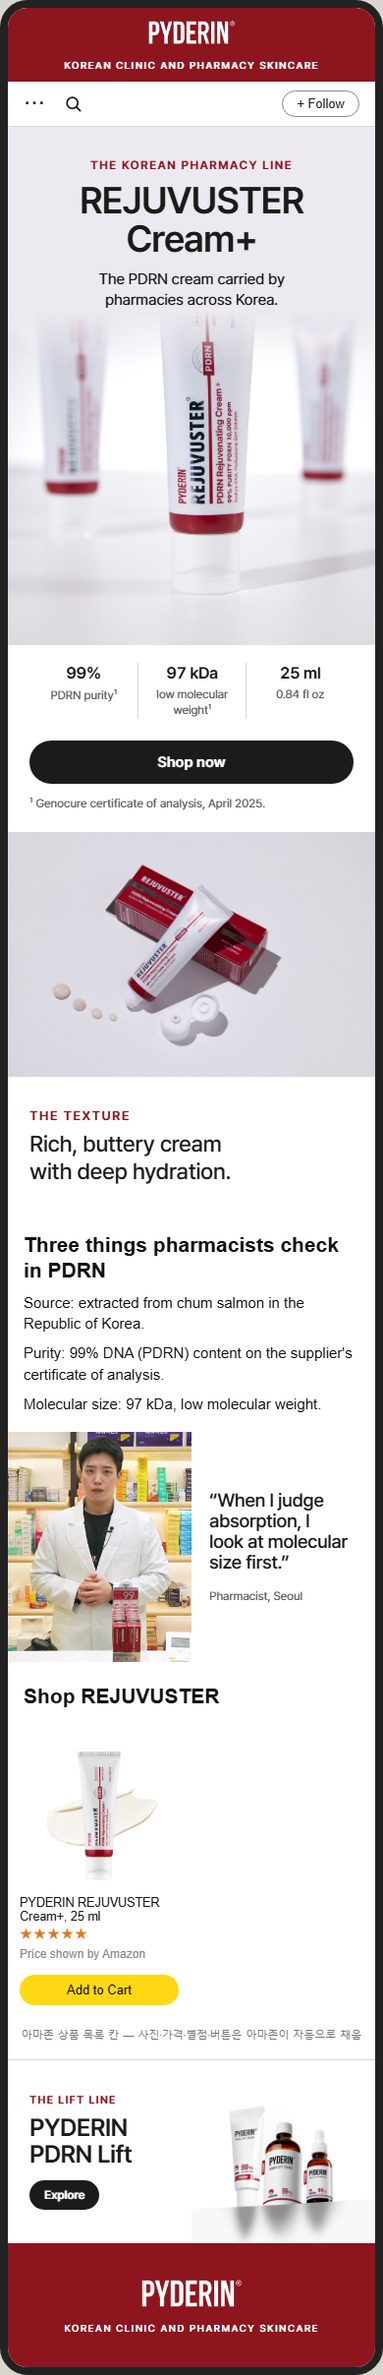
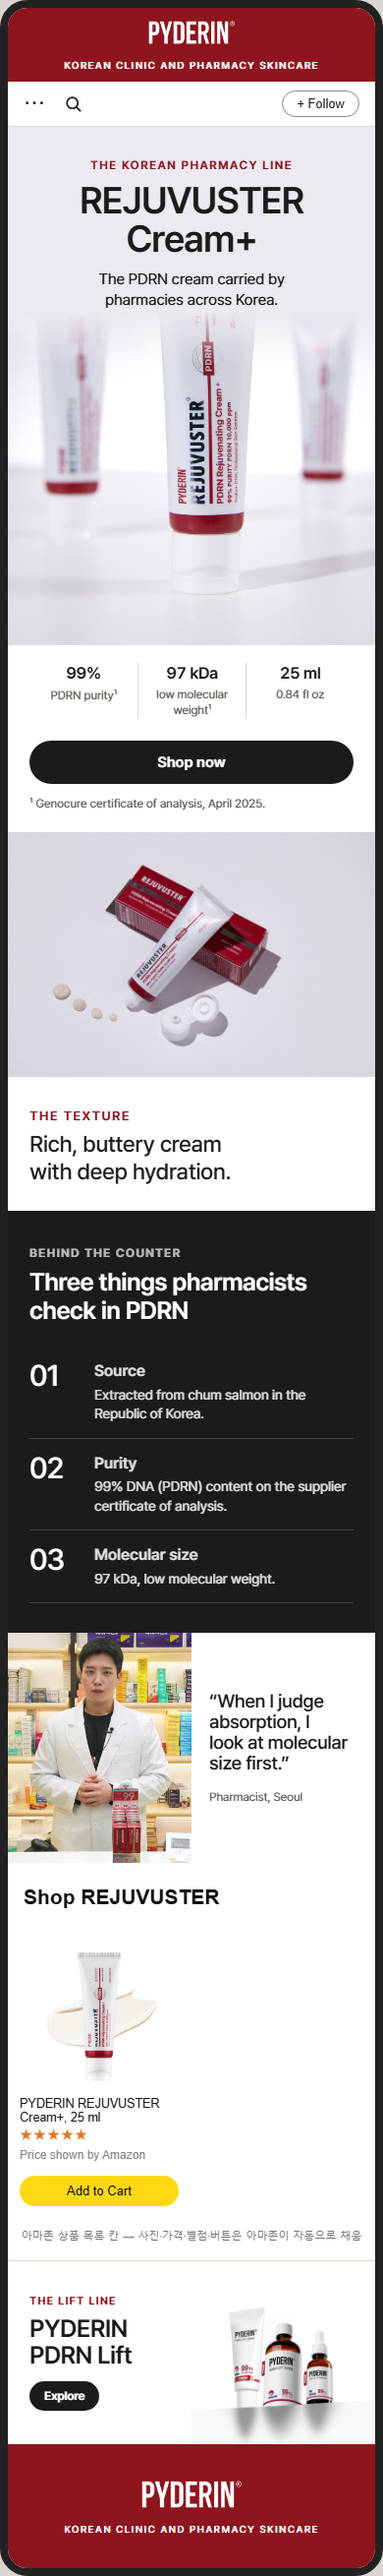
PYDERIN 단계 칸·20,000 ppm 칸, REJUVUSTER 세 가지 칸을 처음 구성으로 되돌림

diff --git a/review/index.html b/review/index.html
@@ -103,11 +103,11 @@
 <tr><td>12-2</td><td class="pos">한 문장</td><td class="ko">한국 피부과·의원에서 만나는 PDRN 라인.</td><td class="en">The PDRN line found in Korean skin clinics.</td><td class="src">소개서 병의원 라인 4종</td><td class="ask">4종 모두 병의원 입점 제품이 맞는지. 약국에서도 파는 제품은 크림뿐인지</td><td class="box"></td><td class="box"></td></tr>
 <tr><td>12-3</td><td class="pos">크림 사진 칸</td><td class="ko">(리프트 크림 스튜디오 컷 — 큰 숫자 20,000ppm 위)</td><td class="en">(photo)</td><td class="src">NAS 디자인팀 제품 촬영 보정본</td><td class="ask"></td><td class="box"></td><td class="box"></td></tr>
 <tr><td>12-4</td><td class="pos">배너 사진</td><td class="ko">(리프트 3종 스튜디오 연출 사진)</td><td class="en">(photo)</td><td class="src">NAS 디자인팀 제품 촬영 보정본</td><td class="ask"></td><td class="box"></td><td class="box"></td></tr>
-<tr><td>12-5</td><td class="pos">소제목 (아마존 글자 칸)</td><td class="ko">각각의 역할</td><td class="en">What each one does</td><td class="src"></td><td class="ask"></td><td class="box"></td><td class="box"></td></tr>
-<tr><td>12-6</td><td class="pos">1단계 토너</td><td class="ko">1단계. PDRN 리프트 토너: 첫 단계. 수분을 채우고 다음 단계를 위해 피부를 정돈합니다.</td><td class="en">Step 1. PDRN Lift Toner: the first layer. Hydrates and preps skin for the steps that follow.</td><td class="src">미국 상세페이지 사용 순서</td><td class="ask">토너 설명으로 맞는지</td><td class="box"></td><td class="box"></td></tr>
-<tr><td>12-7</td><td class="pos">2단계 앰플</td><td class="ko">2단계. PDRN 리프트 핏 앰플: 집중 단계. 가벼운 PDRN 세럼.</td><td class="en">Step 2. PDRN Lift Fit Ampoule: the concentrated step. A lightweight PDRN serum.</td><td class="src">미국 상품 페이지</td><td class="ask">앰플 설명으로 맞는지 (&quot;가벼운&quot; 제형 표현 포함)</td><td class="box"></td><td class="box"></td></tr>
-<tr><td>12-8</td><td class="pos">3단계 크림</td><td class="ko">3단계. PDRN 리프트 크림: 대표 탄력 크림.</td><td class="en">Step 3. PDRN Lift Cream: the signature firming cream.</td><td class="src">사장님 지정: 메인 SKU</td><td class="ask"></td><td class="box"></td><td class="box"></td></tr>
-<tr><td>12-9</td><td class="pos">주 1회 마스크</td><td class="ko">주 1회. PDRN 리프트 마스크: 시트 마스크, 한 상자 5매.</td><td class="en">Weekly. PDRN Lift Facial Mask: a sheet mask, five per box.</td><td class="src">미국 상품 페이지(43ml × 5)</td><td class="ask">사용 주기 주 1회가 맞는지</td><td class="box"></td><td class="box"></td></tr>
+<tr><td>12-5</td><td class="pos">소제목</td><td class="ko">루틴 · 각각의 역할</td><td class="en">THE ROUTINE · What each one does</td><td class="src"></td><td class="ask"></td><td class="box"></td><td class="box"></td></tr>
+<tr><td>12-6</td><td class="pos">1단계 토너</td><td class="ko">01 PDRN 리프트 토너 — 첫 단계. 수분을 채우고 다음 단계를 위해 피부를 정돈합니다.</td><td class="en">01 PDRN Lift Toner — The first layer. Hydrates and preps skin for the steps that follow.</td><td class="src">미국 상세페이지 사용 순서</td><td class="ask">토너 설명으로 맞는지</td><td class="box"></td><td class="box"></td></tr>
+<tr><td>12-7</td><td class="pos">2단계 앰플</td><td class="ko">02 PDRN 리프트 핏 앰플 — 집중 단계. 가벼운 PDRN 세럼.</td><td class="en">02 PDRN Lift Fit Ampoule — The concentrated step. A lightweight PDRN serum.</td><td class="src">미국 상품 페이지</td><td class="ask">앰플 설명으로 맞는지 (&quot;가벼운&quot; 제형 표현 포함)</td><td class="box"></td><td class="box"></td></tr>
+<tr><td>12-8</td><td class="pos">3단계 크림</td><td class="ko">03 PDRN 리프트 크림 — 대표 탄력 크림.</td><td class="en">03 PDRN Lift Cream — The signature firming cream.</td><td class="src">사장님 지정: 메인 SKU</td><td class="ask"></td><td class="box"></td><td class="box"></td></tr>
+<tr><td>12-9</td><td class="pos">주 1회 마스크</td><td class="ko">주 1회 PDRN 리프트 마스크 — 주 1회 시트 마스크. 한 상자 5매.</td><td class="en">Weekly PDRN Lift Facial Mask — The weekly sheet mask. Five sheets per box.</td><td class="src">미국 상품 페이지(43ml × 5)</td><td class="ask">사용 주기 주 1회가 맞는지</td><td class="box"></td><td class="box"></td></tr>
 <tr><td>12-10</td><td class="pos">큰 숫자 칸</td><td class="ko">대표 제품 PDRN 리프트 크림 · 연어 DNA PDRN 20,000ppm</td><td class="en">THE SIGNATURE: PDRN LIFT CREAM · 20,000 ppm of salmon DNA PDRN</td><td class="src">미국 상품 페이지 제목</td><td class="ask">2-4번과 같은 확인</td><td class="box"></td><td class="box"></td></tr>
 <tr><td>12-11</td><td class="pos">상품 목록 제목 (아마존 글자 칸)</td><td class="ko">PDRN 리프트 구매</td><td class="en">Shop PDRN Lift</td><td class="src"></td><td class="ask"></td><td class="box"></td><td class="box"></td></tr>
 <tr><td>12-12</td><td class="pos">아래 이동 칸</td><td class="ko">한국 약국 라인 · 리쥬부스터 크림+ · 리쥬부스터 보기</td><td class="en">THE KOREAN PHARMACY LINE · REJUVUSTER Cream+ · Explore REJUVUSTER</td><td class="src">코스알엑스 라인 페이지 방식</td><td class="ask"></td><td class="box"></td><td class="box"></td></tr>
@@ -118,10 +118,10 @@
 <tr><td>13-3</td><td class="pos">수치 3개</td><td class="ko">PDRN 순도 99% · 97kDa 저분자 · 25ml</td><td class="en">99% PDRN purity · 97 kDa low molecular weight · 25 ml / 0.84 fl oz</td><td class="src">제노큐어 시험성적서, 미국 상품 페이지</td><td class="ask">리쥬부스터 크림+ 원료에도 99%·97kDa가 해당하는지, 용량 표기</td><td class="box"></td><td class="box"></td></tr>
 <tr><td>13-4</td><td class="pos">제형 사진 칸</td><td class="ko">제형 · 깊은 보습의 풍부한 버터 같은 크림.</td><td class="en">THE TEXTURE · Rich, buttery cream with deep hydration.</td><td class="src">미국 리쥬부스터 상품 페이지 4번째 이미지의 문구</td><td class="ask"></td><td class="box"></td><td class="box"></td></tr>
 <tr><td>13-5</td><td class="pos">수치 각주</td><td class="ko">제노큐어 시험성적서(2025년 4월)</td><td class="en">Genocure certificate of analysis, April 2025.</td><td class="src">소개서 4쪽</td><td class="ask"></td><td class="box"></td><td class="box"></td></tr>
-<tr><td>13-6</td><td class="pos">소제목 (아마존 글자 칸)</td><td class="ko">약사가 PDRN에서 확인하는 세 가지</td><td class="en">Three things pharmacists check in PDRN</td><td class="src">약사 인터뷰(베리뉴약국·별하약국) 발언</td><td class="ask">약사 발언을 일반화해 써도 되는지</td><td class="box"></td><td class="box"></td></tr>
-<tr><td>13-7</td><td class="pos">출처</td><td class="ko">출처: 대한민국 연어에서 추출.</td><td class="en">Source: extracted from chum salmon in the Republic of Korea.</td><td class="src">제노큐어 원산지 증명서</td><td class="ask">리쥬부스터 크림+도 같은 원료를 쓰는지</td><td class="box"></td><td class="box"></td></tr>
-<tr><td>13-8</td><td class="pos">순도</td><td class="ko">순도: 원료사 시험성적서의 DNA(PDRN) 함량 99%.</td><td class="en">Purity: 99% DNA (PDRN) content on the supplier&#x27;s certificate of analysis.</td><td class="src">제노큐어 시험성적서</td><td class="ask">리쥬부스터 크림+ 원료에도 해당하는지</td><td class="box"></td><td class="box"></td></tr>
-<tr><td>13-9</td><td class="pos">분자 크기</td><td class="ko">분자 크기: 97kDa 저분자.</td><td class="en">Molecular size: 97 kDa, low molecular weight.</td><td class="src">제노큐어 시험성적서</td><td class="ask">리쥬부스터 크림+ 원료에도 해당하는지</td><td class="box"></td><td class="box"></td></tr>
+<tr><td>13-6</td><td class="pos">소제목</td><td class="ko">카운터 뒤에서 · 약사가 PDRN에서 확인하는 세 가지</td><td class="en">BEHIND THE COUNTER · Three things pharmacists check in PDRN</td><td class="src">약사 인터뷰(베리뉴약국·별하약국) 발언</td><td class="ask">약사 발언을 일반화해 써도 되는지</td><td class="box"></td><td class="box"></td></tr>
+<tr><td>13-7</td><td class="pos">출처</td><td class="ko">01 출처 — 대한민국 연어에서 추출.</td><td class="en">01 Source — Extracted from chum salmon in the Republic of Korea.</td><td class="src">제노큐어 원산지 증명서</td><td class="ask">리쥬부스터 크림+도 같은 원료를 쓰는지</td><td class="box"></td><td class="box"></td></tr>
+<tr><td>13-8</td><td class="pos">순도</td><td class="ko">02 순도 — 원료사 시험성적서의 DNA(PDRN) 함량 99%.</td><td class="en">02 Purity — 99% DNA (PDRN) content on the supplier certificate of analysis.</td><td class="src">제노큐어 시험성적서</td><td class="ask">리쥬부스터 크림+ 원료에도 해당하는지</td><td class="box"></td><td class="box"></td></tr>
+<tr><td>13-9</td><td class="pos">분자 크기</td><td class="ko">03 분자 크기 — 97kDa 저분자.</td><td class="en">03 Molecular size — 97 kDa, low molecular weight.</td><td class="src">제노큐어 시험성적서</td><td class="ask">리쥬부스터 크림+ 원료에도 해당하는지</td><td class="box"></td><td class="box"></td></tr>
 <tr><td>13-10</td><td class="pos">약사 한마디</td><td class="ko">&quot;흡수력을 볼 때 저는 분자 크기를 먼저 봅니다.&quot; — 약사, 서울</td><td class="en">&quot;When I judge absorption, I look at molecular size first.&quot; — Pharmacist, Seoul</td><td class="src">명동K약국 약사 인터뷰(발언 대상은 리쥬부스터)</td><td class="ask">약사 이름 표기 여부, 사용 동의</td><td class="box"></td><td class="box"></td></tr>
 <tr><td>13-11</td><td class="pos">아래 이동 칸</td><td class="ko">리프트 라인 · 피더린 PDRN 리프트 · 피더린 보기</td><td class="en">THE LIFT LINE · PYDERIN PDRN Lift · Explore PYDERIN</td><td class="src"></td><td class="ask"></td><td class="box"></td><td class="box"></td></tr>
 </table></div></div>

diff --git a/index.html b/index.html
@@ -443,12 +443,14 @@
   <div class="sec" data-t="이미지"><div class="end"><img src="img/logo-white.png" alt="PYDERIN" style="height:30px;margin:auto"><small>Korean clinic and pharmacy skincare</small></div></div></div><div class="page" id="pyderin">
   <div class="sec full" data-t="이미지"><img src="img/v3/lift-blocks.jpg" alt="" style="aspect-ratio:1680/2400;object-position:50% 100%">
     <div class="ov"><span class="eyebrow">The Lift line</span><h2>PYDERIN<br>PDRN Lift</h2><p>The PDRN line found in Korean skin clinics.</p></div></div>
-  <div class="sec at" data-t="글자"><h3>What each one does</h3>
-    <p>Step 1. PDRN Lift Toner: the first layer. Hydrates and preps skin for the steps that follow.</p>
-    <p>Step 2. PDRN Lift Fit Ampoule: the concentrated step. A lightweight PDRN serum.</p>
-    <p>Step 3. PDRN Lift Cream: the signature firming cream.</p>
-    <p>Weekly. PDRN Lift Facial Mask: a sheet mask, five per box.</p></div>
-  <div class="sec tx" data-t="이미지"><div class="ov"><span class="eyebrow">The signature: PDRN Lift Cream</span><b>20,000<small> ppm</small></b><p>of salmon DNA PDRN in a rich, dense cream.</p></div><img src="img/v4/lift-flat.jpg" alt="PYDERIN PDRN Lift Cream on its texture" style="aspect-ratio:390/375;object-position:50% 62%"></div>
+  <div class="sec" data-t="이미지" style="padding-bottom:30px"><div class="title"><span class="eyebrow">The routine</span><h3>What each one does</h3></div>
+    <div class="s4">
+      <div><b>01</b><strong>PDRN Lift Toner</strong><span>The first layer. Hydrates and preps skin for the steps that follow.</span></div>
+      <div><b>02</b><strong>PDRN Lift Fit Ampoule</strong><span>The concentrated step. A lightweight PDRN serum.</span></div>
+      <div><b>03</b><strong>PDRN Lift Cream</strong><span>The signature firming cream.</span></div>
+      <div><b>Weekly</b><strong>PDRN Lift Facial Mask</strong><span>The weekly sheet mask. Five sheets per box.</span></div>
+    </div></div>
+  <div class="sec num" data-t="이미지"><img src="img/v3/cream-block.jpg" alt="" style="aspect-ratio:35/33"><div><span class="eyebrow" style="opacity:.8;margin-bottom:10px">The signature: PDRN Lift Cream</span><b>20,000 ppm</b>of salmon DNA PDRN</div></div>
   <div class="sec at" data-t="글자"><h3>Shop PDRN Lift</h3></div>
   <div class="sec az" data-t="상품 목록(아마존)"><div class="grid"><div class="card"><img class="pk" src="img/m-cream.jpg" alt="">PYDERIN PDRN Lift Cream, 30 ml<br><span class="stars">★★★★★</span><span class="price">Price shown by Amazon</span><span class="buy">Add to Cart</span></div><div class="card"><img class="pk" src="img/m-toner.jpg" alt="">PYDERIN PDRN Lift Toner, 100 ml<br><span class="stars">★★★★★</span><span class="price">Price shown by Amazon</span><span class="buy">Add to Cart</span></div><div class="card"><img class="pk" src="img/ampoule.jpg" alt="">PYDERIN PDRN Lift Fit Ampoule, 30 ml<br><span class="stars">★★★★★</span><span class="price">Price shown by Amazon</span><span class="buy">Add to Cart</span></div><div class="card"><img class="pk" src="img/mask.jpg" alt="">PYDERIN PDRN Lift Facial Mask, 5 sheets<br><span class="stars">★★★★★</span><span class="price">Price shown by Amazon</span><span class="buy">Add to Cart</span></div></div><div class="aznote">아마존 상품 목록 칸 — 사진·가격·별점·버튼은 아마존이 자동으로 채움</div></div>
   <a class="xt" data-t="이미지 1500×750" href="#rejuvuster"><div><span class="eyebrow">The Korean pharmacy line</span><b>REJUVUSTER<br>Cream+</b><u>Explore</u></div><img src="img/v3/rj-swatch-w.jpg" alt="" style="object-position:50% 46%"></a>
@@ -460,10 +462,12 @@
     <div class="note"><sup>1</sup> Genocure certificate of analysis, April 2025.</div></div>
   <div class="sec" data-t="이미지"><img src="img/v3/rj-drops.jpg" alt="" style="width:100%;aspect-ratio:3/2;object-fit:cover">
     <div class="pq" style="padding:22px 22px 26px"><span class="eyebrow" style="color:var(--red);margin-bottom:8px">The texture</span><q style="quotes:none">Rich, buttery cream with deep hydration.</q></div></div>
-  <div class="sec at" data-t="글자"><h3>Three things pharmacists check in PDRN</h3>
-    <p>Source: extracted from chum salmon in the Republic of Korea.</p>
-    <p>Purity: 99% DNA (PDRN) content on the supplier's certificate of analysis.</p>
-    <p>Molecular size: 97 kDa, low molecular weight.</p></div>
+  <div class="sec dark" data-t="이미지"><div class="title"><span class="eyebrow">Behind the counter</span><h3>Three things pharmacists check in PDRN</h3></div>
+    <div class="rows">
+      <div><b>01</b><span><strong>Source</strong>Extracted from chum salmon in the Republic of Korea.</span></div>
+      <div><b>02</b><span><strong>Purity</strong>99% DNA (PDRN) content on the supplier certificate of analysis.</span></div>
+      <div><b>03</b><span><strong>Molecular size</strong>97 kDa, low molecular weight.</span></div>
+    </div></div>
   <div class="sec feat" data-t="이미지"><img src="img/pick/p11.jpg" alt="" style="object-position:50% 15%"><div><b style="font-size:19px;font-weight:500;margin-top:0">“When I judge absorption, I look at molecular size first.”</b><span style="font-size:12px;color:var(--mute)">Pharmacist, Seoul</span></div></div>
   <div class="sec at" data-t="글자"><h3>Shop REJUVUSTER</h3></div>
   <div class="sec az" data-t="상품 목록(아마존)"><div class="grid"><div class="card"><img class="pk" src="img/m-rejuvuster.jpg" alt="">PYDERIN REJUVUSTER Cream+, 25 ml<br><span class="stars">★★★★★</span><span class="price">Price shown by Amazon</span><span class="buy">Add to Cart</span></div></div><div class="aznote">아마존 상품 목록 칸 — 사진·가격·별점·버튼은 아마존이 자동으로 채움</div></div>
